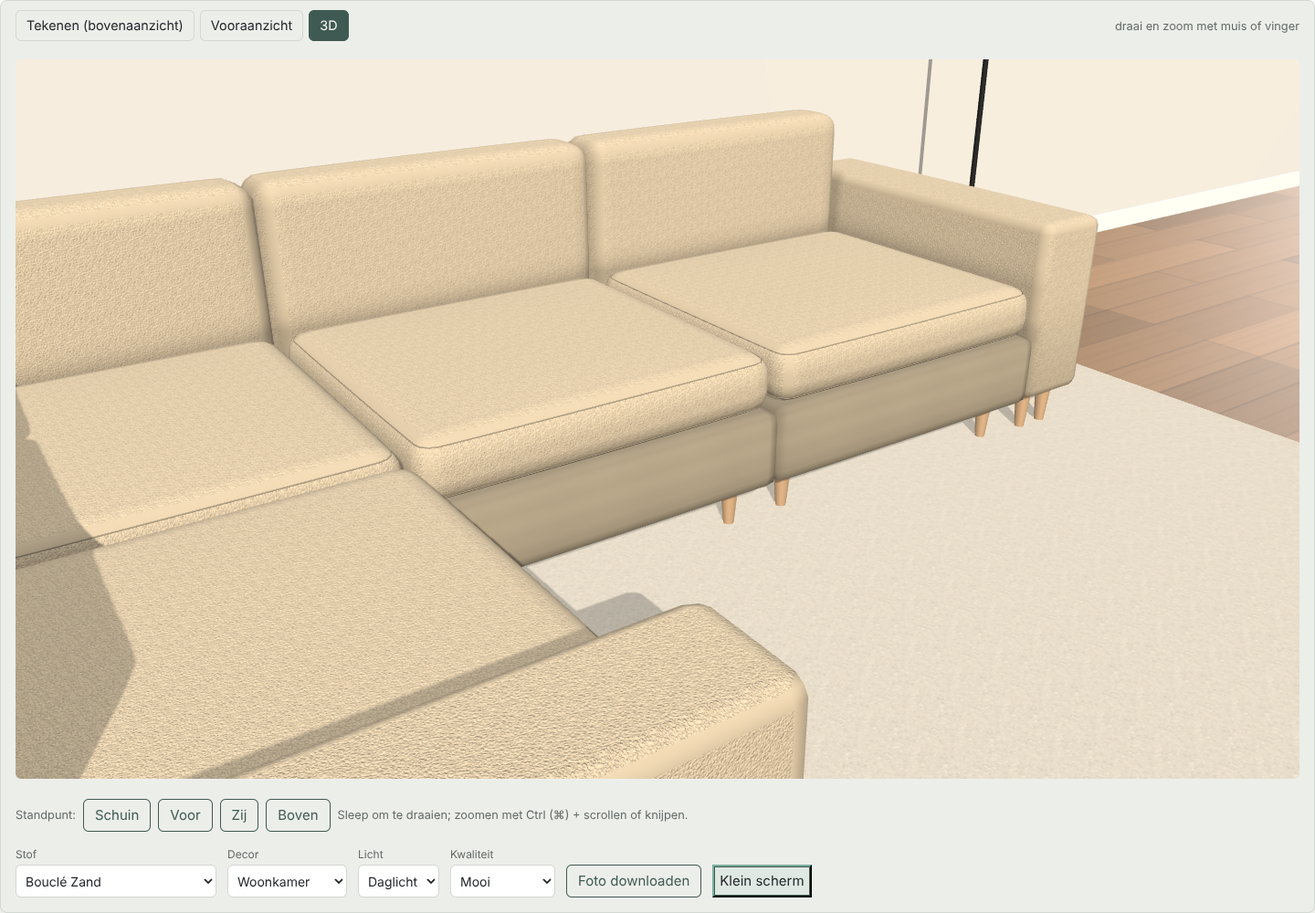
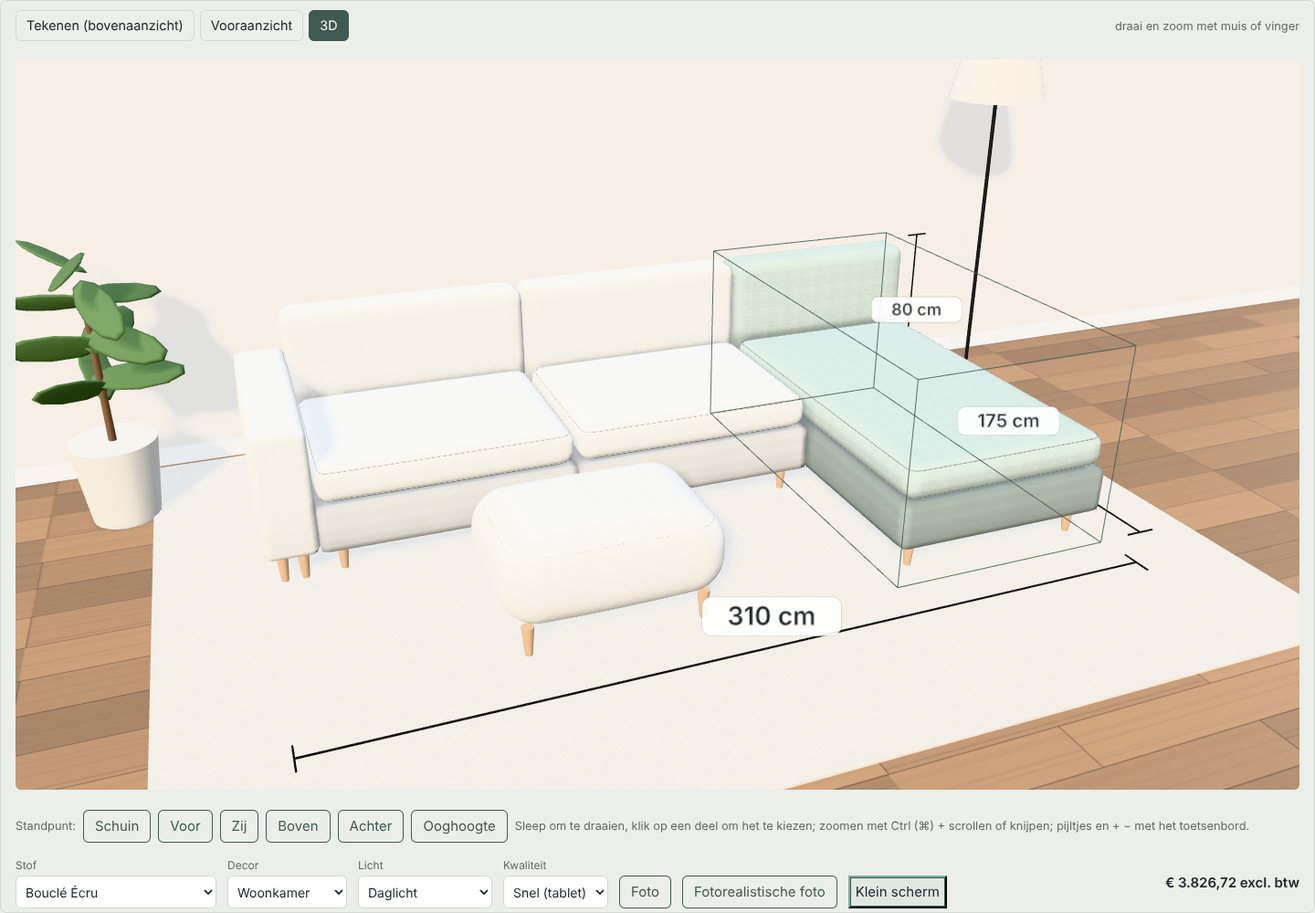
Zetels: geen dubbele rugleuningknoppen bij de chaise, plant met bladvormen; documentatie bijgewerkt (three.js 0.187, testen, analyse gebruiksgemak hoofdstuk 9)
Claude-Session: https://claude.ai/code/session_01PczewFp9M8BS44vqTSpk6u

diff --git a/packages/demo-web/src/drie-d.ts b/packages/demo-web/src/drie-d.ts
@@ -772,7 +772,7 @@ export function maak3D(houder: HTMLElement, opties: Opties3D = {}): Viewer3D | n
   let lichtNaam: LichtNaam = 'studio';
   const kamerDelen: any[] = [];
   const decorMaterialen = new Map<string, any>();
-  const plantMat = new THREE.MeshStandardMaterial({ color: kleur('#4f6b3c'), roughness: 0.8 });
+  let bladVorm: any = null;
   /** Houten structuur met nerf (poten, tafeltjes): fijne lange lijnen in een iets andere tint. */
   const nerven = new Map<string, any>();
   function houtNerf(hex: string) {
@@ -895,17 +895,43 @@ export function maak3D(houder: HTMLElement, opties: Opties3D = {}): Viewer3D | n
       const px = k.x - 50, pz = k.z + 10;
       const pot = new THREE.Mesh(new THREE.CylinderGeometry(17, 13, 34, 28), new THREE.MeshStandardMaterial({ color: kleur(dc.muur?.soort === 'steen' ? '#6b6560' : '#d9d2c4'), roughness: 0.7 }));
       pot.position.set(px, 17, pz); add(pot);
-      // Blad: een tiental platte, gekantelde ellipsen rond een stam.
-      for (let i = 0; i < 11; i++) {
-        const blad = new THREE.Mesh(new THREE.SphereGeometry(1, 10, 6), plantMat);
-        const hoek = (i / 11) * Math.PI * 2, hoogte = 60 + (i % 4) * 16;
-        blad.scale.set(7, 1.2, 18);
-        blad.position.set(px + Math.cos(hoek) * 14, hoogte, pz + Math.sin(hoek) * 14);
-        blad.rotation.set(0.5 * Math.sin(i), -hoek + Math.PI / 2, 0.6);
-        add(blad);
+      // Blad: gebogen bladvormen (ficus) op drie stammetjes, in twee tinten groen.
+      bladVorm ??= (() => {
+        const v = new THREE.Shape();
+        v.moveTo(0, 0);
+        v.quadraticCurveTo(6.5, 5, 4.5, 13);
+        v.quadraticCurveTo(2.5, 19, 0, 21);
+        v.quadraticCurveTo(-2.5, 19, -4.5, 13);
+        v.quadraticCurveTo(-6.5, 5, 0, 0);
+        const g = new THREE.ShapeGeometry(v, 6);
+        // Licht gebogen in de lengte en gevouwen langs de nerf.
+        const pos = g.attributes.position;
+        for (let i = 0; i < pos.count; i++) {
+          const x = pos.getX(i), y = pos.getY(i);
+          pos.setZ(i, -0.012 * y * y + Math.abs(x) * 0.25);
+        }
+        g.computeVertexNormals();
+        return g;
+      })();
+      const groen = [new THREE.MeshStandardMaterial({ color: kleur('#3f5f34'), roughness: 0.55, side: THREE.DoubleSide }), new THREE.MeshStandardMaterial({ color: kleur('#55773f'), roughness: 0.6, side: THREE.DoubleSide })];
+      for (let st = 0; st < 3; st++) {
+        const sx = px + (st - 1) * 5, sz = pz + (st % 2 ? 3 : -3), top = 95 + st * 18;
+        for (let i = 0; i < 9; i++) {
+          const blad = new THREE.Mesh(bladVorm, groen[(i + st) % 2]);
+          const hoek = i * 2.4 + st, hoogte = 45 + ((top - 45) * i) / 8;
+          blad.position.set(sx + Math.cos(hoek) * 2, hoogte, sz + Math.sin(hoek) * 2);
+          blad.rotation.set(-0.9 - (i % 3) * 0.25, hoek, 0, 'YXZ');
+          const sch = 0.8 + ((i * 7) % 5) * 0.08;
+          blad.scale.set(sch, sch, sch);
+          add(blad);
+        }
       }
-      const stam = new THREE.Mesh(new THREE.CylinderGeometry(1.2, 1.6, 70, 8), new THREE.MeshStandardMaterial({ map: houtNerf('#6a4a32'), roughness: 0.8 }));
-      stam.position.set(px, 60, pz); add(stam);
+      for (let st = 0; st < 3; st++) {
+        const top = 95 + st * 18;
+        const stam = new THREE.Mesh(new THREE.CylinderGeometry(0.7, 1.1, top - 30, 6), new THREE.MeshStandardMaterial({ map: houtNerf('#6a4a32'), roughness: 0.8 }));
+        stam.position.set(px + (st - 1) * 5, 30 + (top - 30) / 2, pz + (st % 2 ? 3 : -3));
+        add(stam);
+      }
     }
     scene.add(...kamerDelen);
     zetLicht();

diff --git a/packages/demo-web/src/ontwerper.ts b/packages/demo-web/src/ontwerper.ts
@@ -1192,11 +1192,14 @@ function toonEigenschappen() {
       ['rug-achter', '+ Rugleuning achter'], ['rug-links', '+ Rugleuning links'], ['rug-rechts', '+ Rugleuning rechts'],
       ['rugkussen', '+ Rugkussen'], ['sierkussen', '+ Sierkussen'], ['rolkussen', '+ Rolkussen'],
     ] as const) {
+      // De chaise longue heeft een eigen keuze "Rugleuning" (vast frame, met prijs): geen losse rugleuning erbovenop.
+      if (t.tekenstijl === 'chaise' && wat.startsWith('rug-')) continue;
       const b = el('button', { type: 'button', class: 'tweede klein-knop' }, tekst) as HTMLButtonElement;
       b.addEventListener('click', () => voegOpzetToe(e, wat));
       rij2.append(b);
     }
     vak.append(rij2);
+    if (t.tekenstijl === 'chaise') vak.append(el('p', { class: 'klein' }, 'Een rugleuning voor de chaise kies je hieronder bij "Rugleuning" (achteraan of langs de lange zijde).'));
     delen.push(vak);
   }
   if (elementOpties.childElementCount) delen.push(elementOpties);

diff --git a/docs/overdracht.md b/docs/overdracht.md
@@ -7,7 +7,7 @@
 | Analyse en stappenplan | `docs/configurator-analyse-en-stappenplan.md` (incl. beslissingen en voortgangstabel) |
 | Onderzoek zetelconfigurators | `docs/onderzoek-zetelconfigurators.md` |
 | Fase 0-sjabloon (productkennis klant) | `docs/fase0-productkennis-meubels.md`, nog in te vullen met de klant |
-| Motor (`packages/core`) | Klaar voor demo: formules, regels, prijstabellen, korting, stuklijst, materialen, vrij ontwerp met opties, vormgeving (ontwerpmodus), vooraanzicht, 3D-opbouw, collectie van 42 modellen, opzet-elementen, catalogus-controle, vrije hoogtes. Daarnaast voor de bouw: raam/deur-model, plattegrond (`plattegrond.ts`, `plattegrondsvg.ts`), gevels en gevelmaterialen (`gevels.ts`), offerte met posities (`offerte.ts`) en de maatlijstlezer (`voorbeelden/maatlijst.ts`). **166 tests groen.** |
+| Motor (`packages/core`) | Klaar voor demo: formules, regels, prijstabellen, korting, stuklijst, materialen, vrij ontwerp met opties, vormgeving (ontwerpmodus), vooraanzicht, 3D-opbouw, collectie van 42 modellen, opzet-elementen, catalogus-controle, vrije hoogtes. Daarnaast voor de bouw: raam/deur-model, plattegrond (`plattegrond.ts`, `plattegrondsvg.ts`), gevels en gevelmaterialen (`gevels.ts`), offerte met posities (`offerte.ts`) en de maatlijstlezer (`voorbeelden/maatlijst.ts`). **173 tests groen.** |
 | Klikbare demo (`packages/demo-web`) | Tabbladen: Modellen · Sofa op maat · Vrij ontwerp (tekenen in boven- én vooraanzicht, verplaatsen, vrije hoogtes, 3D, ontwerpmodus, rugleuningen en kussens) · Kast op maat · Materialen · **Catalogus** (editor: elementen, opties, modellen, delen) |
 | Huisstijl klant | `npm run build -w @configurator/demo-web` maakt ook `dist/configurator-corneille-silence.html` (stijl van hun website). **Niet publiek publiceren**: alleen als bestand aan de gebruiker. |
 | Doorsturen (offline) | De build maakt ook `dist/*-offline.html`: één bestand met 3D-bibliotheek, lettertypes en foto's ingebakken, werkt zonder internet. Eerst `python3 -I packages/demo-web/scripts/haal_lettertypes.py` en `haal_fotos.py` (niet in git). Zip met LEES MIJ: `obsidian-export/Configurator Corneille & Silence.zip`. |
@@ -19,6 +19,7 @@
 | **Onderzoek raamsoftware (1/11)** | `docs/onderzoek-raamsoftware.md`: hoe LogiKal, ReynaPro (= afgeschermde Reynaers-versie van LogiKal) en Chacal (DSI) rekenen (aftrekken, glasmaten, beslag, statiek, Uw, prijs, productie, CE) en waar wij passen: commerciële laag + werf, koppeling i.p.v. nabouwen. Admin2Win leest al materiaallijsten in uit LogiKal, ReynaPro, Chacal, SapaLogic, Ramasoft, WinPro en Schücal. Voorstel om in te bouwen: statische voordimensionering, afstandhouder (ψ), glasbestelling per ruit. |
 | **Raamberekening (1/11, ronde 3)** | Ingebouwd: **statiek** (stap Statiek: winddruk, L/300 of L/200, tussenstijl standaard/versterkt/koppelprofiel, nodig/aanwezig cm⁴, winddruk voor alle ramen vanuit de offerte, rode stijl in 3D), **afstandhouder** (ψ in de Uw, rand rond het glas in 3D), **glasbestelling per ruit** (dagmaat, falsmaat, glasmaat; kopiëren of CSV). 145 tests groen. |
 | **Groot scherm en maten (1/11, ronde 5)** | Knop *Groot scherm* bij elk tekenvlak (plattegrond, gevels, zetelontwerper). Een raam of deur toont tijdens het plaatsen en bij selectie de kettingmaten tot de muren; "Muur links/rechts" kun je intypen. Een meubel toont de afstand tot de muren. |
+| **3D ronde 3: alle remmen los (3/11)** | • **three.js 0.187** i.p.v. r128 van cdnjs, mee gebundeld (HTML ±1,8 MB; geen internet nodig voor de 3D). Beeld vergeleken vóór/na, ook de woning in de bouwdemo.<br>• **Kleur:** Neutral-tonemapping, gemeten het dichtst bij de stalen (Leder Cognac #935028 bij staal #8f4f2c).<br>• **Licht:** 6 lichtsferen met elk een eigen HDR-omgeving: Studio, Daglicht, Ochtend, Bewolkt, Avond, Toonzaal (spots).<br>• **Mooi:** ambient occlusion (GTAO) in hoeken en naden, zachte VSM-schaduwen, stofglans (sheen) op alle stoffen; tijdens het draaien het snelle beeld.<br>• **Fotorealistische foto:** path tracing met voortgangsbalk en *Annuleren* (160 stappen op een computer, 48 op een tablet). Niet getest op een echte grafische kaart: in de testomgeving 2 min voor een klein proefbeeld.<br>• **Decors:** + Japandi, Klassiek, Toonzaal, Terras. **Meer instellingen:** vloer (7), muur (kleur/baksteen/geen), tapijt, lamp en plant, lens, helderheid, zonrichting, maten in 3D, automatisch draaien, herstellen.<br>• **Gebruiksgemak:** klikken op een deel kiest het element (met kader), standpunten Achter en Ooghoogte, toetsenbord (pijltjes, + −, 0), prijs in de 3D-balk, eigenschappen ook in groot scherm, 44 px op aanraakschermen, plant met echte bladvormen.<br>• **Chaise longue met rugleuning** (achteraan of lange zijde): de dubbele knoppen *+ Rugleuning* bij de chaise zijn weg.<br>• Beelden: `docs/afbeeldingen/zetel-3d-groot-scherm.png`, `zetel-3d-decors.png`, `zetel-3d-japandi-mooi.png`, `zetel-3d-fotomodus-proef.png`. |
 | **3D ronde 2: instellingen en groot scherm (3/11)** | • **Kleurgetrouw:** lineaire tonemapping (belichting 0,95) i.p.v. ACES: gemeten op het scherm komt Velours Petrol #1f6b75 uit als #277078 (was #006d77, te fel). De stof in 3D toont nu dezelfde kleur als de staal.<br>• **Instellingen onder de 3D:** *Stof* (zelfde als Hoofdmateriaal), *Decor* (Studio, Woonkamer, Scandinavisch, Loft met bakstenen muur en betonvloer), *Licht* (Studio, Daglicht, Avond met warme staanlamp), *Kwaliteit* (Mooi / Snel voor tablets; op aanraakschermen standaard Snel), *Foto downloaden* (PNG van ±2400 px) en *Groot scherm* (alleen de 3D en de knoppen, Esc = terug). Keuzes worden in de browser onthouden.<br>• **Realisme:** mist in de achtergrondkleur (geen harde horizon), houtnerf op poten, schaduw waar kussens tegen rug, arm of onderbouw liggen (per hoekpunt, berekend uit de naburige blokken), lichte zitkuil in de zitkussens, staanlamp en plant in de kamerdecors.<br>• Presets staan als gegevens in `drie-d.ts` (`DECORS`, `LICHTEN`): een decor of lichtsfeer toevoegen = één regel. Beelden: `docs/afbeeldingen/zetel-3d-woonkamer.png`, `zetel-3d-loft.png`, `zetel-3d-avond.png`, `zetel-3d-groot-scherm.png`. Niet getest op een echte tablet. |
 | **Realistischere 3D (3/11)** | • **Licht:** studio-omgevingsbeeld (softboxen, PMREM) voor zachte reflecties; zwakkere hemel- en vullicht.<br>• **Contactschaduw** onder de zetel (volgt de voetafdruk, ook bij hoeksofa's) en **decor** *Studio* of *Woonkamer* (parket, muur met plint, tapijt), knoppen naast de standpunten.<br>• **Stof:** reliëfkaart per weefsel (bouclé en rib het sterkst), velours met glans langs de randen (sheen), leder met een zachte toplaag; stoffoto's dienen ook als reliëf.<br>• **Vormen:** kussens fijn opgedeeld, bol en afgerond, onderaan iets donkerder; armen en rug licht gevuld. De optie **Naden** is zichtbaar: gewone naad, bies (zelfde stof of contrast) of dubbel sierstiksel.<br>• Alleen de zetelweergave krijgt decor en contactschaduw (`maak3D(houder, { zetel: true })`); de woning in de bouwdemo blijft zoals ze was, met hetzelfde studiolicht. Afbeelding: `docs/afbeeldingen/zetel-3d-kussens.png`.<br>• Nog niet: echte 3D-modellen van de maker (CAD) en fotomodus. |
 | **Stoffen en stalenkaart (3/11)** | 60 materialen in **16 collecties** (o.a. Katoen Basic, Linnen Lino, Bouclé Nuage en Teddy, Velours Soft en Mat, Wol Tweed en Melange, Chenille Mila, Rib Cord, Sunny, Jacquard, Leder, Chill Zone van Chivasso), waarvan **45 nieuw** (15 en daarna 30 op 3/11). Collecties, kleuren en prijzen zijn **demo** (verzonnen), behalve de stofkaart van Chill Zone CH3112/051.<br>• **Vrij ontwerp:** *Stalenkaart* onder *Hoofdmateriaal*, per collectie, met filters op soort weefsel, kleurfamilie en prijsgroep. De keuzelijsten zijn per collectie gegroepeerd.<br>• **Sofa op maat:** de stoftegels staan per collectie onder een tussenkop.<br>• **Materialen:** lijst per collectie; nieuwe velden *Collectie* en *Weefsel*.<br>• **Staal en 3D:** elk weefsel (effen, linnen, velours, bouclé, chenille, wol, rib, jacquard, leder) wordt getekend in de kleur van de stof (`demo-web/src/weefsel.ts`) en in de 3D op ware grootte getoond. Een stoffoto (zoals bij Chill Zone) gaat voor.<br>• Wie al een eigen lijst bewaard had, krijgt de nieuwe standaardstoffen er automatisch bij. |

diff --git a/.claude/skills/zetel-3d/SKILL.md b/.claude/skills/zetel-3d/SKILL.md
@@ -8,7 +8,7 @@ description: Bouw, wijzig of debug de 3D-weergave (en boven-/vooraanzicht) van z
 De 3D zit in twee lagen. Houd ze gescheiden:
 
 1. **Motor** (`packages/core/src/ruimtelijk.ts`): `bouw3D(ontwerp, catalogus, materialen)` zet een ontwerp om naar een lijst **blokken** (`Blok`). Geen 3D-bibliotheek, volledig testbaar met vitest.
-2. **Weergave** (`packages/demo-web/src/drie-d.ts`): zet blokken om naar three.js-meshes (r128, globale `THREE` van cdnjs). Alleen presentatie: materialen, licht, camera.
+2. **Weergave** (`packages/demo-web/src/drie-d.ts`): zet blokken om naar three.js-meshes (three 0.187 uit npm, gebundeld; `const THREE: any = THREE_`, typen losjes via `three.d.ts`). Alleen presentatie: materialen, licht, camera, nabewerking, fotomodus.
 
 Boven- en vooraanzicht volgen dezelfde regels: `tekenElement()` in `ontwerp.ts` (bovenaanzicht) en `tekenVooraanzicht()` in `vooraanzicht.ts`. **Een nieuwe vorm hoort in alle drie** (boven, voor, 3D).
 
@@ -59,7 +59,11 @@ Lees opties via `gekozenOpties(ontwerp, catalogus, e)` en `te(groep, veld, stand
 
 ## Weergave (drie-d.ts)
 - Afgeronde balken: `ExtrudeGeometry` van een afgerond grondvlak met bevel, gedraaid zodat de extrusie naar boven gaat; onderkant op `y = 0` van de mesh.
-- Kleuren zijn sRGB-hex → `new THREE.Color(hex).convertSRGBToLinear()`; `renderer.outputEncoding = sRGBEncoding`, **lineaire** tonemapping, belichting 0,95 (ACES verschoof de tint van stoffen: petrol werd turkoois). Controleer kleurgetrouwheid door canvaspixels te meten tegen de staal.
+- Kleurbeheer staat aan: `new THREE.Color(hex)` zet sRGB zelf om (geen `convertSRGBToLinear` meer); texturen krijgen `colorSpace = SRGBColorSpace`; `tint()` rekent op de sRGB-waarden (niet via THREE.Color). Tonemapping **Neutral** (Khronos PBR Neutral, belichting 1): gemeten het dichtst bij de stalen (ACES maakte petrol turkoois). Lichtsterktes × π (fysische eenheden sinds r155). Controleer kleurgetrouwheid door canvaspixels te meten tegen de staal.
+- **Licht en omgeving:** `LICHTEN` (Studio, Daglicht, Ochtend, Bewolkt, Avond, Toonzaal/spots) met elk een eigen HDR-equirect (`hdrBeeld`: wanden + ronde lichtbronnen, Float32) als `scene.environment`; die dient ook de path tracer. **Decors** `DECORS` (Studio, Woonkamer, Scandinavisch, Loft, Japandi, Klassiek, Toonzaal, Terras) + losse `Weergave3D` (vloer `VLOEREN`, muur, tapijt, spullen, lens, helderheid, zonrichting, maten, draaien) via `instellen()`.
+- **Kwaliteit Mooi** (alleen zetel): `EffectComposer` met `GTAOPass` + `OutputPass` en VSM-schaduwen (2048, blur). Tijdens draaien het gewone beeld, 180 ms na de laatste beweging één keer de nabewerking (`render(direct)`).
+- **Fotomodus:** `fotoRealistisch()` met `WebGLPathTracer` (three-gpu-pathtracer): mist, contactschaduwvlak en hoekpuntkleuren uit (die laatste leest de tracer verkeerd: zwarte vlakken), `environmentIntensity` = OMGEVING × 1,15, synchroon `setScene` (async vraagt een BVH-worker), lus met `renderSample()` tot het aantal stappen. Bump-maps negeert de tracer.
+- **Klikken:** meshes heten `b.code`; `opKlik(elementId)` via raycast bij een klik zonder slepen; `markeer(id)` tekent een `Box3Helper`.
 - Stof krijgt een fijne weefseltextuur (canvas) die met de kleur vermenigvuldigd wordt; hout ruwheid 0,55; metaal metalness 0,85.
 - Bouwmaterialen (ook gebruikt door de bouwdemo): `steen` (baksteen), `planken`, `tegel` (60 × 60), `parket`, `kunststof`, `glas`, `matglas`. Textuur in wereldmaat (cm) via `wereldUV`, zodat stenen en tegels hun echte maat houden.
 - `zijden` op een blok geeft één zijvlak een ander materiaal (bv. baksteen buiten, verf binnen); `plaatsBlokken` (ruimtelijk.ts) draait blokken per 90° en draait `zijden` en `kantel` mee.
@@ -68,7 +72,7 @@ Lees opties via `gekozenOpties(ontwerp, catalogus, e)` en `te(groep, veld, stand
 - Schaduwen via één `DirectionalLight` waarvan het schaduwkader meeschaalt met de zetel. Camera: eigen orbit (slepen, scrollen, knijpen) en vaste standpunten.
 
 ## Testen in de browser
-- three.js komt van cdnjs; in de cloudomgeving kan dat geblokkeerd zijn. Gebruik de lokale kopie (`three@0.128.0` devDependency) met Playwright: `page.route('https://cdnjs.cloudflare.com/**', …)` → `node_modules/three/build/three.min.js`.
+- three.js zit in de bundel (geen CDN). Neem beelden met `canvas.toDataURL()`; *Mooi* (GTAO + VSM) is in swiftshader ±7 s per beeld, dus test met *Snel* of wacht 30–45 s. `window.__zetel3d.fotoRealistisch({ stappen: 6, breedte: 520 })` = snelle proef van de fotomodus.
 - Start Chromium met `--use-angle=swiftshader --enable-unsafe-swiftshader --ignore-gpu-blocklist` voor WebGL zonder GPU.
 
 ## Valkuilen

diff --git a/CLAUDE.md b/CLAUDE.md
@@ -7,7 +7,7 @@ Productconfigurator (configureren → prijzen → offerte) voor maatwerkmeubelen
 ## Structuur
 - `packages/core`: de motor (geen UI/ERP-afhankelijkheid). Formules als Excel-tekst → JsonLogic (`formule.ts`, `logica.ts`), productmodel (`types.ts`, `motor.ts`), modelcontrole, SVG-tekening (`svg.ts`), materialen, vrij ontwerp (`ontwerp.ts`: elementen, opties, vormgeving), vooraanzicht, 3D-opbouw (`ruimtelijk.ts`).
 - `packages/core/voorbeelden`: demomodellen (kast, sofa per cm, zetelcatalogus `vrij-ontwerp.ts`, modellen `modellen.ts`). **Alle prijzen zijn verzonnen.**
-- `packages/demo-web`: klikbare demo, gebundeld met esbuild tot één HTML-bestand (`npm run build -w @configurator/demo-web` → `dist/configurator-demo.html`). three.js r128 wordt van cdnjs geladen.
+- `packages/demo-web`: klikbare demo, gebundeld met esbuild tot één HTML-bestand (`npm run build -w @configurator/demo-web` → `dist/configurator-demo.html`). three.js 0.187 (met de uitbreidingen voor nabewerking en `three-gpu-pathtracer` voor de fotomodus) zit mee in de bundel; er wordt niets van een CDN geladen.
 - `packages/bouw-web`: aparte demo voor de bouwsector (ramen, deuren, aanbouw) op dezelfde motor, model in `core/voorbeelden/aanbouw.ts` + `aanbouw3d.ts` (`npm run build -w @configurator/bouw-web` → `dist/bouw-configurator.html` en `-offline.html`). Sinds 1/11 ook plattegrond (ruimtes, muren, openingen, meubels: `core/src/plattegrond.ts`, `plattegrondsvg.ts`), raam/deur-model (`voorbeelden/raam.ts`, `raam3d.ts`), offerte met posities (`core/src/offerte.ts`), catalogus inrichting en gevelmaterialen (`voorbeelden/inrichting.ts`) en voorbeeldwoning (`voorbeelden/woning.ts`). Ronde 5: gevel-editor (`bouw-web/src/gevel-ui.ts`, materialen per muurvlak en sokkel), enkel ramen zonder woning (`bouw-web/src/ramenlijst-ui.ts`, `voorbeelden/maatlijst.ts`), klantweergave; analyse gebruiksgemak: `docs/analyse-gebruiksgemak.md`. Onderzoek: `docs/onderzoek-bouw-ramen-deuren.md`, analyse: `docs/analyse-bouw-woning-demo.md`, begrippen: `docs/begrippen-bouw.md`, concurrentie (LogiKal, ReynaPro, Chacal): `docs/onderzoek-raamsoftware.md`. Voor alles rond de bouwdemo (plattegrond, verdiepingen, gevels, werf, raam-3D): gebruik de skill `bouw-woning` (`.claude/skills/bouw-woning/SKILL.md`).
 - `docs/`: analyse en stappenplan, fase 0-sjabloon, onderzoek, overdracht, afbeeldingen.
 
@@ -15,6 +15,6 @@ Productconfigurator (configureren → prijzen → offerte) voor maatwerkmeubelen
 - Controles vóór elke commit: `npm test` (vitest) en `npm run typecheck` in de root.
 - Code, namen en commentaar in het Nederlands, zoals de bestaande code.
 - Branch: `claude/vigilant-cray-yi2j33` (enige branch in de repo, dus geen PR mogelijk).
-- 3D lokaal testen: cdnjs is vanuit de cloudomgeving niet bereikbaar; three@0.128.0 staat als devDependency, gebruik in Playwright `page.route('https://cdnjs.cloudflare.com/**', …)` met `node_modules/three/build/three.min.js`, en Chromium met `--use-angle=swiftshader --enable-unsafe-swiftshader`.
+- 3D lokaal testen: Chromium met `--use-angle=swiftshader --enable-unsafe-swiftshader` (zonder grafische kaart; kwaliteit *Mooi* is daar ±7 s per beeld, gebruik *Snel* of wacht lang). Beelden nemen met `canvas.toDataURL()` (preserveDrawingBuffer staat aan) i.p.v. een elementscreenshot. `window.__zetel3d` geeft in de ontwerper de 3D-weergave (bv. `fotoRealistisch({ stappen: 6, breedte: 520 })` voor een snelle proef van de fotomodus, ±2 min in swiftshader).
 - Modellen van de klant niet verzinnen: wat uit foto's is afgeleid, markeren als benadering.
 - De versie in de huisstijl van de klant (`configurator-corneille-silence.html`) alleen als bestand geven, niet publiek publiceren.

diff --git a/docs/analyse-gebruiksgemak.md b/docs/analyse-gebruiksgemak.md
@@ -192,3 +192,30 @@ Aanleiding: "er kan niet gescrold worden in de configurator fullscreen". Daarna 
 - **Safari en echte aanraakschermen:** niet getest. Knijpen is alleen getest zoals de code het afhandelt.
 - **Begrip, smaak en vertrouwen:** een script weet niet of een klant de woorden begrijpt of het mooi vindt. Daarvoor blijft de gebruikstest met mensen (hoofdstuk 7) nodig.
 
+
+## 9. Zetel-3D: controle op ontbrekende zaken en gebruiksgemak (3/11/2026)
+
+*Testrun in de browser (computer 1440 px, groot scherm, telefoon 390 px) met de voorbeeldsofa met chaise longue en poef. Alles zonder foutmeldingen.*
+
+### Opgelost in deze ronde
+| Wat ontbrak of stoorde | Nu |
+|---|---|
+| In de 3D kon je niets aanklikken; een element kiezen kon alleen in het bovenaanzicht. | Klik op een deel van de zetel: dat element wordt gekozen (kader in de 3D), de eigenschappen staan eronder, ook in groot scherm. |
+| In groot scherm verdwenen de prijs en de eigenschappen. | Prijs in de 3D-balk; eigenschappen blijven zichtbaar onder de 3D. |
+| Geen standpunt van achteren of op ooghoogte (de knop *Achter* bestond in de code, niet op het scherm). | Knoppen *Achter* en *Ooghoogte* (zoals een staande klant de zetel ziet). |
+| Geen bediening met het toetsenbord. | Pijltjes draaien, + en − zoomen, 0 = standaardbeeld; het 3D-vak is met Tab bereikbaar en heeft een uitleg voor schermlezers. |
+| Geen maten in de 3D. | *Maten tonen*: breedte, diepte en hoogte met labels in cm. |
+| Voor de toonzaal: de zetel stond stil. | *Automatisch draaien*, pauzeert 3 s na elke bediening. |
+| Foto alleen als schermafdruk. | *Fotorealistische foto* met echte lichtberekening, voortgangsbalk en *Annuleren*. |
+| Kleur in 3D week af van de staal. | Gemeten en bijgesteld (Neutral-tonemapping). |
+| Chaise longue: rugleuning kon alleen als los opzet-element, zonder duidelijke prijs. | Keuze *Rugleuning* (zonder, achteraan, lange zijde links of rechts) met meerprijs; de losse knoppen *+ Rugleuning* bij de chaise zijn weg, met een verwijzing naar de keuze. |
+| Selecties en knoppen onder de 3D waren op een tablet 36 px hoog. | 44 px op aanraakschermen. |
+
+### Nog open
+1. **Niet getest op echte toestellen.** *Mooi* (ambient occlusion en zachte schaduwen) en de fotomodus vragen een grafische kaart; in de testomgeving zonder grafische kaart duurt een *Mooi*-beeld ±7 s en een klein fotoproefbeeld ±2 min. Op een tablet staat standaard *Snel*. Graag testen op de toonzaaltablet en een gewone laptop.
+2. **Fotomodus toont geen stofreliëf** (de lichtberekening negeert de reliëfkaarten); kleur en glans kloppen wel. Mogelijke verbetering: het reliëf omzetten naar een normal map.
+3. **Stof per element in de 3D wisselen** kan via het eigenschappenvak onder de 3D; een snelle stalenstrook rechtstreeks in de 3D (zoals bij de stofkeuze bovenaan) zou nog sneller zijn.
+4. **Sofa op maat** (de configurator per cm) heeft nog geen 3D, alleen de tekening; de vrije ontwerper wel.
+5. **Modellen van de klant** (Kotor, Belize, Pula …) hebben een chaise longue zonder rugleuning, zoals afgeleid uit de foto's. Na te vragen of die chaises bij Corneille & Silence een rug hebben; dan zetten we de nieuwe keuze in het model.
+6. **Delen:** een link naar de configuratie of een AR-weergave op de gsm (zetel op ware grootte in de eigen kamer) bestaat nog niet.
+7. **Bestandsgrootte:** door de ingebakken 3D is de demo ±1,8 MB; voor SharePoint blijft handmatig opladen nodig.

diff --git a/.claude/skills/bouw-woning/SKILL.md b/.claude/skills/bouw-woning/SKILL.md
@@ -158,7 +158,7 @@ Demo: `packages/bouw-web` (één HTML-bestand, `npm run build -w @configurator/b
 ## Testen
 - `npm test` en `npm run typecheck` in de root (159 tests op 1/11/2026; `core/test/woning.test.ts`, `werf.test.ts`, `gevel.test.ts`, `maatlijst.test.ts`).
 - Browser: er zijn nu twee knoppen met `data-weergave="offerte"` (Ramenlijst en Offerte); klik in tests op `.nav [data-weergave="offerte"]:not(.alleen-ramen)`. Coördinaten in een tekenvlak pas berekenen ná klikken in het palet (Playwright scrolt het palet in beeld).
-- Browser: Playwright met cdnjs gerouteerd naar `node_modules/three/build/three.min.js`, Chromium met `--use-angle=swiftshader --enable-unsafe-swiftshader`. Klik op een opening met `{ force: true }` (de groep bevat ook bogen in de ruimte).
+- Browser: Playwright met Chromium `--use-angle=swiftshader --enable-unsafe-swiftshader` (three.js zit sinds 3/11 in de bundel, geen CDN meer). Klik op een opening met `{ force: true }` (de groep bevat ook bogen in de ruimte).
 
 ## Gebruiksgemak testen
 - Testrun in de browser: `docs/analyse-gebruiksgemak.md`, hoofdstuk 8. Per scherm en schermformaat (desktop, laptop, tablet, telefoon) controleren op aanraakdoelen onder 44 px, een pagina die te breed is, afgekapte tekst en contrast, en de taken doorlopen met een teller voor het aantal handelingen.

diff --git a/README.md b/README.md
@@ -58,7 +58,7 @@ packages/
                         - Sofa/Kast op maat: formulier uit het productmodel, live prijs en tekening
                         - Vrij ontwerp: elementen tekenen, slepen (magneet), vergroten, draaien,
                           materiaal en opties per element, aanpassingen voor de hele zetel,
-                          vooraanzicht en 3D (three.js r128 via cdnjs), ongedaan maken,
+                          vooraanzicht en 3D (three.js 0.187, gebundeld), ongedaan maken,
                           ontwerpmodus: vorm van elk element (rugdikte, kussens, zachtheid,
                           rugvorm, houten frame)
                         - Materialen: toevoegen, bewerken, verwijderen, lijst kopiëren/inlezen
